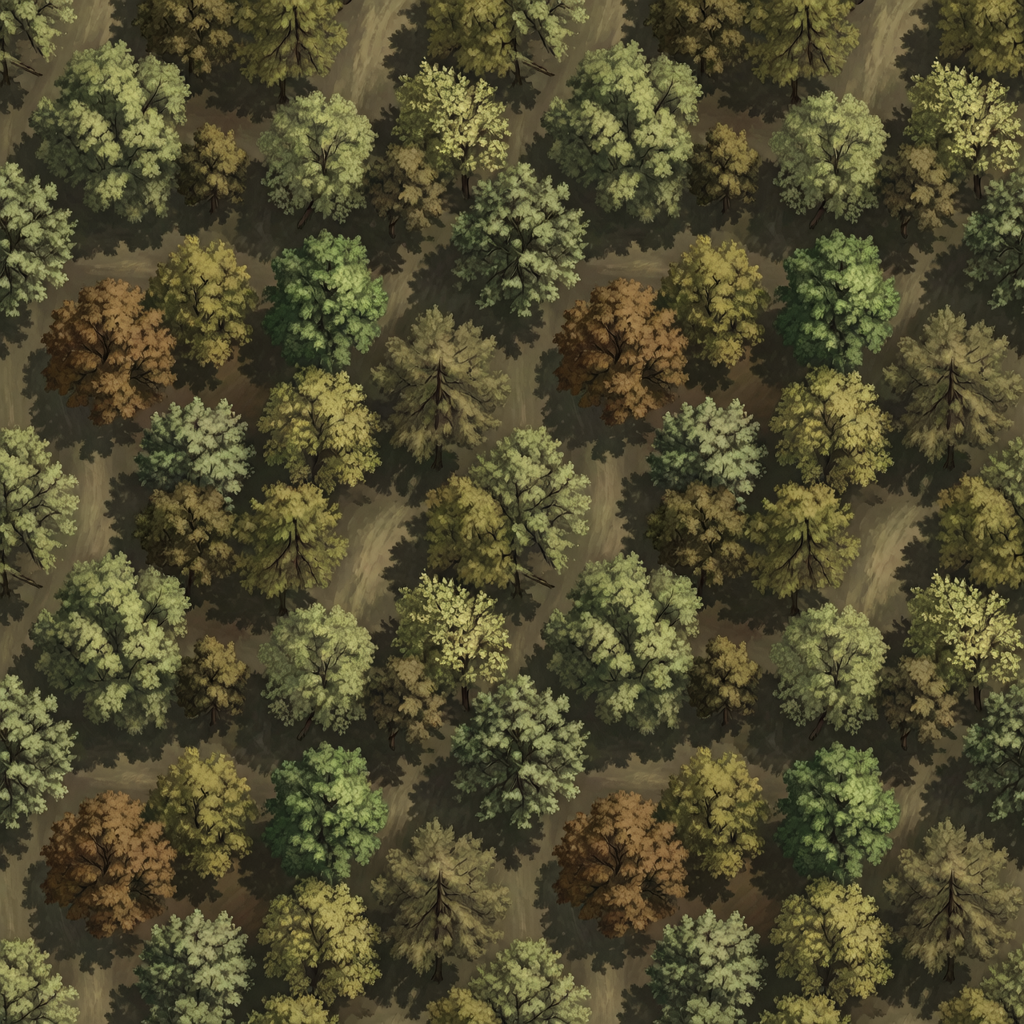
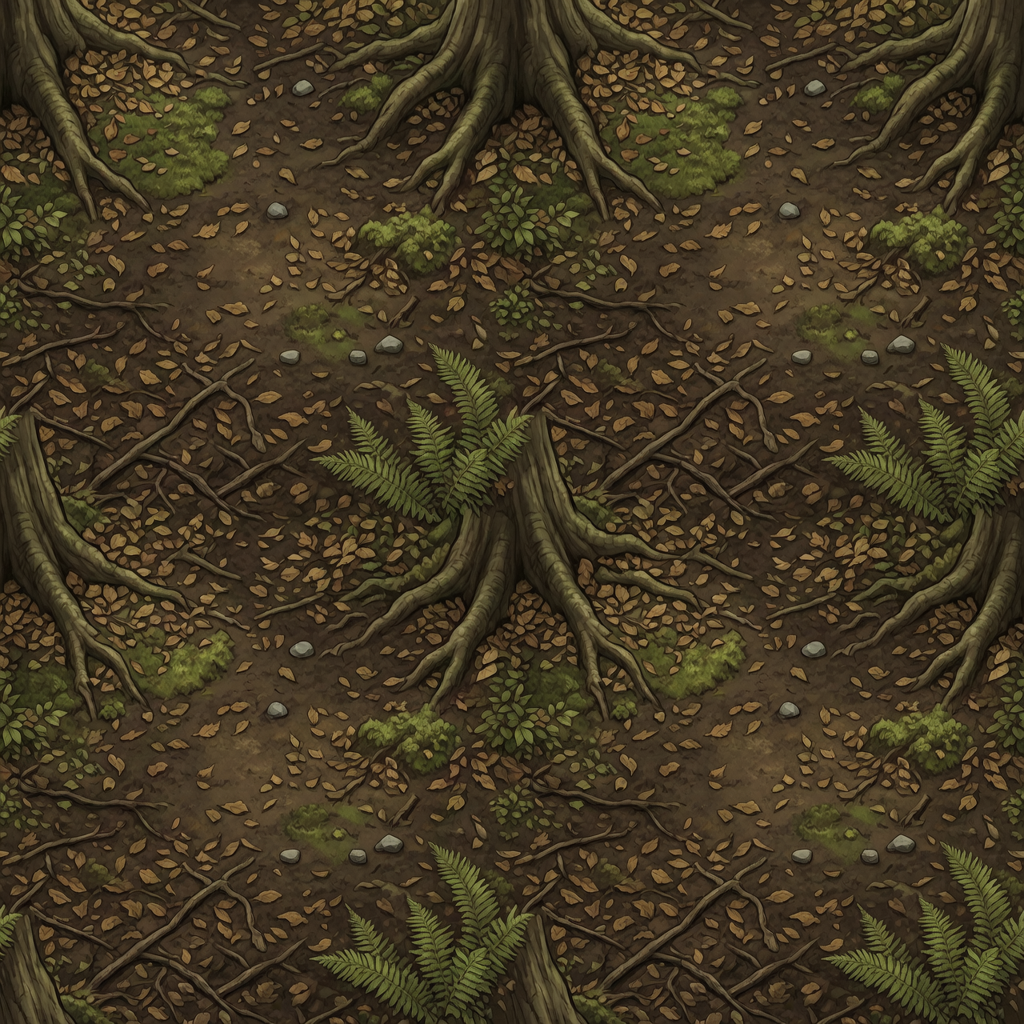
feat(art+audio): W4-A 10张2.5D散布素材(树×4/石×2/灌木×2/芦苇/草,扣透明加接触影)+森林改林地地表; 音效收尾:BGM淡入淡出过渡(切歌不再硬切)

diff --git a/src/renderer/ui/AudioManager.ts b/src/renderer/ui/AudioManager.ts
@@ -19,6 +19,10 @@ export class AudioManager {
   private currentBgmKey: string | null = null;
   private currentBgm: Phaser.Sound.BaseSound | null = null;
   private destroyed = false;
+  /** 进行中的淡入淡出 tween（destroy 时停掉，避免回调在销毁后触发） */
+  private fadeTweens: Phaser.Tweens.Tween[] = [];
+  private static readonly BGM_VOL = 0.5;
+  private static readonly FADE_MS = 900;
 
   private onBgmRefresh = (): void => this.refreshBgm();
   private onBuildingDone = (): void => this.playSfx('sfx_chime', 0.4);
@@ -57,16 +61,40 @@ export class AudioManager {
     });
     if (key === this.currentBgmKey) return;
     this.currentBgmKey = key;
-    // 切歌：停旧
-    if (this.currentBgm) { this.currentBgm.stop(); this.currentBgm.destroy(); this.currentBgm = null; }
+    // 切歌：旧曲淡出后停（不再硬切），新曲从 0 淡入——过渡平滑。
+    const old = this.currentBgm;
+    this.currentBgm = null;
+    if (old) this.fadeOutAndStop(old);
     if (!this.has(key)) return; // 资产未就位 → 静音降级
     // DeepSeek 复审：play() 在音频上下文被锁/解码失败时可能抛异常——包 try-catch，宁可静音不崩游戏。
     try {
-      this.currentBgm = this.scene.sound.add(key, { loop: true, volume: 0.5 });
-      this.currentBgm.play();
+      const next = this.scene.sound.add(key, { loop: true, volume: 0 });
+      next.play();
+      this.currentBgm = next;
+      this.fadeTween(next, AudioManager.BGM_VOL); // 淡入
     } catch {
       if (this.currentBgm) { this.currentBgm.destroy(); this.currentBgm = null; }
     }
+  }
+
+  /** 把某 sound 的 volume tween 到目标值（淡入/淡出通用）；记录 tween 供 destroy 停掉。 */
+  private fadeTween(sound: Phaser.Sound.BaseSound, vol: number, onDone?: () => void): void {
+    try {
+      const tw = this.scene.tweens.add({
+        targets: sound, volume: vol, duration: AudioManager.FADE_MS, ease: 'Linear',
+        onComplete: () => { if (!this.destroyed && onDone) onDone(); },
+      });
+      this.fadeTweens.push(tw);
+    } catch {
+      // tween 不可用（极端 mock/环境）→ 直接设音量，不崩
+      try { (sound as unknown as { setVolume?: (v: number) => void }).setVolume?.(vol); } catch { /* noop */ }
+      if (onDone && !this.destroyed) onDone();
+    }
+  }
+
+  /** 旧曲淡出到 0 后 stop+destroy。 */
+  private fadeOutAndStop(sound: Phaser.Sound.BaseSound): void {
+    this.fadeTween(sound, 0, () => { try { sound.stop(); sound.destroy(); } catch { /* noop */ } });
   }
 
   private playSfx(key: string, volume: number): void {
@@ -89,6 +117,9 @@ export class AudioManager {
     this.store.off(STATE_EVENTS.BUILDING_COMPLETED, this.onBuildingDone);
     this.store.off(STATE_EVENTS.BUILDING_PLACED, this.onPlaced);
     this.store.off(STATE_EVENTS.EVENT_TRIGGERED, this.onEvent);
-    if (this.currentBgm) { this.currentBgm.stop(); this.currentBgm.destroy(); this.currentBgm = null; }
+    // 先停所有淡入淡出 tween（避免 onComplete 在销毁后触发），再停 BGM
+    for (const tw of this.fadeTweens) { try { tw.stop(); } catch { /* noop */ } }
+    this.fadeTweens = [];
+    if (this.currentBgm) { try { this.currentBgm.stop(); this.currentBgm.destroy(); } catch { /* noop */ } this.currentBgm = null; }
   }
 }

diff --git a/scripts/gen_scatter_art.py b/scripts/gen_scatter_art.py
@@ -1,0 +1,93 @@
+"""邦国录 · 生成 2.5D 散布素材（树/石/灌木/芦苇），与建筑同斜 45° 视角，黑底后扣透明。
+
+复用 D:/code/scripts/gen_wanxiang_batch.py 的 async 管线，换"单体自然物"专用风格尾：
+斜 3/4 等距视角（和建筑一致）、单个孤立物、纯黑 void 背景、无地面无阴影投到地上。
+输出 public/art/scatter/<id>.png。--model 控额度（pro 优先）。
+"""
+from __future__ import annotations
+import argparse
+import json
+import sys
+import time
+from pathlib import Path
+from concurrent.futures import ThreadPoolExecutor, as_completed
+
+sys.path.insert(0, "D:/code/scripts")
+import gen_wanxiang_batch as gw  # noqa: E402
+
+# 单体自然物风格尾：与建筑同角度，但去掉建筑专属约束，强调单体 + 无地面
+SCATTER_STYLE = (
+    "Single isolated object, ISOMETRIC 3/4 elevated bird's-eye view at the SAME 45-degree angle as "
+    "Anno-style building sprites (viewed slightly from above and the side, NOT flat top-down, NOT straight side). "
+    "Painted in the official art style of Anno 1404 / Pharaoh-remake / Nebuchadnezzar: traditional digital "
+    "oil painting, matte painting, visible brushwork, naturalistic and heavily desaturated dusty earth tones, "
+    "Spring and Autumn period (770-476 BC) rural China nature. "
+    "ONE single specimen centered in frame, the whole object fully visible, modest margin around it. "
+    "Cinematic afternoon golden-hour light coming from the upper-right (so any self-shadow falls to the lower-left), "
+    "consistent with the building sprites. "
+    "Pure pitch-black void background (will be cut to transparent), NO ground plane, NO grass patch under it, "
+    "NO cast shadow on the ground (the game adds its own contact shadow), NO base, NO platform. "
+    "Ultra-detailed 8k, ArtStation. "
+    "ABSOLUTELY NOT: anime, manga, cartoon, chibi, cute, 国漫, 二次元, 江南百景图, flat vector, cel shading, "
+    "saturated colors, 3D PBR render, CG render, multiple objects, scene, landscape, horizon, sky, "
+    "ground texture, drop shadow on floor, text, watermark, frame, border, UI."
+)
+
+SCATTER: list[tuple[str, str]] = [
+    ("tree_pine", "A single tall ancient Chinese pine/conifer tree with a dark blue-green layered needle canopy and a weathered reddish-brown trunk, slightly gnarled, north-China highland pine."),
+    ("tree_locust", "A single old Chinese scholar-tree (locust / huai), broad rounded leafy crown of small bright-and-dark green compound leaves, thick gnarled grey-brown trunk and spreading branches."),
+    ("tree_mulberry", "A single cultivated mulberry tree, lower and bushier, broad heart-shaped green leaves, short stout trunk with a pollarded knobbly top, the kind grown for sericulture."),
+    ("tree_willow", "A single weeping willow tree beside water, long drooping yellow-green trailing branches, slender pale trunk, graceful cascading foliage."),
+    ("rock_boulder", "A single large weathered grey granite boulder, rounded and cracked, with subtle moss patches and lichen, sitting alone, ancient and mossy."),
+    ("rock_cluster", "A small cluster of three or four weathered grey fieldstones and rubble of varying sizes piled loosely together, dry and dusty."),
+    ("bush_shrub", "A single low green leafy wild shrub bush, dense rounded foliage of small leaves, a bit of dry twig showing, temperate wild brush."),
+    ("bush_dry", "A single dry brown-yellow withered scrub bush / tumbleweed-like dry brush clump, sparse brittle twigs, arid hill vegetation."),
+    ("reed_clump", "A single clump of tall green-and-tan riverside reeds and rushes, slender vertical blades with feathery tops, the kind growing at a water's edge, leaning slightly."),
+    ("grass_tuft", "A single small tuft of wild grass and weeds, a low clump of mixed green and dry-yellow blades sprouting from bare earth."),
+]
+
+
+def main() -> int:
+    ap = argparse.ArgumentParser()
+    ap.add_argument("--out", default="D:/code/colony-game/public/art/scatter")
+    ap.add_argument("--size", default="1024*1024")
+    ap.add_argument("--workers", type=int, default=2)  # 降并发避开限流
+    ap.add_argument("--model", default="wan2.7-image-pro")
+    ap.add_argument("--only", default="")
+    args = ap.parse_args()
+    if not gw.KEY:
+        print("[FAIL] WANXIANG_API_KEY missing")
+        return 2
+    gw.MODEL = args.model
+    out_dir = Path(args.out)
+    out_dir.mkdir(parents=True, exist_ok=True)
+    only = {x.strip() for x in args.only.split(",") if x.strip()}
+    jobs = [gw.Job(id=i, desc=d, prompt=f"{d} {SCATTER_STYLE}") for i, d in SCATTER if not only or i in only]
+    if not jobs:
+        print(f"[FAIL] no jobs match --only={args.only}")
+        return 2
+    print(f"[scatter] {len(jobs)} jobs, model={gw.MODEL}, out={out_dir}")
+    with ThreadPoolExecutor(max_workers=args.workers) as pool:
+        futs = {pool.submit(gw.submit_one, j, args.size): j for j in jobs}
+        for f in as_completed(futs):
+            j = f.result()
+            print(f"  [submit-{'ok' if j.task_id else 'err'}] {j.id} -> {j.task_id or j.error}")
+    submitted = [j for j in jobs if j.task_id]
+    if not submitted:
+        print("[FAIL] zero submitted")
+        return 1
+    with ThreadPoolExecutor(max_workers=args.workers) as pool:
+        futs = {pool.submit(gw.poll_one, j, out_dir): j for j in submitted}
+        for f in as_completed(futs):
+            j = f.result()
+            print(f"  [{'done' if j.saved else 'fail'}] {j.id} ({j.elapsed_s:.0f}s) -> {j.saved or j.error}")
+    (out_dir / f"manifest_scatter_{int(time.time())}.json").write_text(
+        json.dumps([{"id": j.id, "model": gw.MODEL, "saved": j.saved, "error": j.error} for j in jobs], indent=2, ensure_ascii=False),
+        encoding="utf-8")
+    ok = sum(1 for j in jobs if j.saved)
+    print(f"[scatter] {ok}/{len(jobs)} ok")
+    return 0 if ok == len(jobs) else 1
+
+
+if __name__ == "__main__":
+    sys.exit(main())

diff --git a/scripts/postprocess_sprites.py b/scripts/postprocess_sprites.py
@@ -1,0 +1,85 @@
+"""邦国录 · 通用精灵后处理：扣黑底 → 透明 + 柔和接触影（Pillow，零额度）。
+
+通用化自 postprocess_buildings.py，可处理任意目录（建筑/散布素材）。
+从多个边缘点 flood-fill 标记与边缘连通的近黑背景 → 透明（保留内部暗部）；
+由 alpha 剪影生成接触影（偏移 + 高斯模糊 + 暗色），光照右下方向（与建筑一致）。
+原图备份到 <raw>，每次从备份重做，可重复运行不叠加。
+
+用法：
+  python scripts/postprocess_sprites.py --dir public/art/scatter --raw art-library/scatter_raw --glob "*.png" --shadow 3,5 --blur 5
+"""
+from __future__ import annotations
+import argparse
+from pathlib import Path
+from PIL import Image, ImageDraw, ImageFilter
+
+ROOT = Path("D:/code/colony-game")
+SENT = (255, 0, 255)
+
+
+def edge_seeds(w: int, h: int):
+    pts = []
+    for fx in (2, w // 4, w // 2, 3 * w // 4, w - 3):
+        pts.append((fx, 2)); pts.append((fx, h - 3))
+    for fy in (2, h // 4, h // 2, 3 * h // 4, h - 3):
+        pts.append((2, fy)); pts.append((w - 3, fy))
+    return pts
+
+
+def process(src: Path, thresh: int, shadow_off, blur: int, shadow_alpha: int) -> str:
+    im = Image.open(src).convert("RGBA")
+    w, h = im.size
+    rgb = im.convert("RGB").copy()
+    for c in edge_seeds(w, h):
+        try:
+            ImageDraw.floodfill(rgb, c, SENT, thresh=thresh)
+        except Exception:
+            pass
+    px_rgb = rgb.load(); px = im.load()
+    cut = 0
+    for y in range(h):
+        for x in range(w):
+            if px_rgb[x, y] == SENT:
+                r, g, b, _ = px[x, y]; px[x, y] = (r, g, b, 0); cut += 1
+    alpha = im.split()[3]
+    shadow = Image.new("RGBA", (w, h), (0, 0, 0, 0))
+    shadow.paste((10, 8, 6, shadow_alpha), (0, 0), alpha)
+    shadow = shadow.filter(ImageFilter.GaussianBlur(blur))
+    canvas = Image.new("RGBA", (w, h), (0, 0, 0, 0))
+    canvas.alpha_composite(shadow, shadow_off)
+    canvas.alpha_composite(im, (0, 0))
+    canvas.save(src)
+    return f"{src.name}: cut {100*cut/(w*h):.0f}%"
+
+
+def main() -> int:
+    ap = argparse.ArgumentParser()
+    ap.add_argument("--dir", required=True)
+    ap.add_argument("--raw", required=True)
+    ap.add_argument("--glob", default="*.png")
+    ap.add_argument("--thresh", type=int, default=42)
+    ap.add_argument("--shadow", default="6,12", help="shadow offset x,y")
+    ap.add_argument("--blur", type=int, default=9)
+    ap.add_argument("--shadow-alpha", type=int, default=150)
+    args = ap.parse_args()
+    d = (ROOT / args.dir) if not Path(args.dir).is_absolute() else Path(args.dir)
+    raw = (ROOT / args.raw) if not Path(args.raw).is_absolute() else Path(args.raw)
+    raw.mkdir(parents=True, exist_ok=True)
+    sx, sy = (int(v) for v in args.shadow.split(","))
+    pngs = sorted(p for p in d.glob(args.glob) if not p.name.startswith("manifest"))
+    if not pngs:
+        print(f"[FAIL] no png in {d}")
+        return 2
+    print(f"[postprocess] {len(pngs)} sprites in {d}")
+    for p in pngs:
+        bak = raw / p.name
+        if not bak.exists():
+            Image.open(p).save(bak)
+        Image.open(bak).convert("RGBA").save(p)  # 从备份重做
+        print("  " + process(p, args.thresh, (sx, sy), args.blur, args.shadow_alpha))
+    print("[postprocess] done")
+    return 0
+
+
+if __name__ == "__main__":
+    raise SystemExit(main())

diff --git a/scripts/gen_terrain_art.py b/scripts/gen_terrain_art.py
@@ -30,7 +30,7 @@ TERRAIN_STYLE = (
 TERRAINS: list[tuple[str, str]] = [
     ("plain", "Lush but earthy temperate grassland meadow with patches of cultivated millet field furrows and bare tilled soil, scattered wild grass tufts, small stones, dry and green mixed."),
     ("hills", "Dry rolling loess hill ground, ochre and tan packed earth with sparse dry yellow grass, subtle undulating contours, eroded soil, a few scattered rocks."),
-    ("forest", "Dense temperate broadleaf forest canopy seen straight from directly above, tops of pine and locust and mulberry trees, layered green and umber foliage clumps, deep shadow gaps between crowns."),
+    ("forest", "Shaded forest floor ground under a tree canopy: dark rich brown leaf-litter soil with fallen leaves and twigs, patches of moss and undergrowth fern, a few tree roots and small stones, dappled shade. NO tree tops, NO canopy from above — just the forest GROUND (trees are placed separately as sprites)."),
     ("river", "Calm shallow river and stream water surface seen from above, gentle ripples and eddies, muddy green-brown water with subtle reflections, a few wet pebbles and reed patches at the edges."),
     ("mountain", "Bare rugged grey mountain rock ground from above, weathered fractured stone, cracks and scree, patches of moss and a little sparse alpine grass in crevices, cold grey and slate tones."),
 ]
